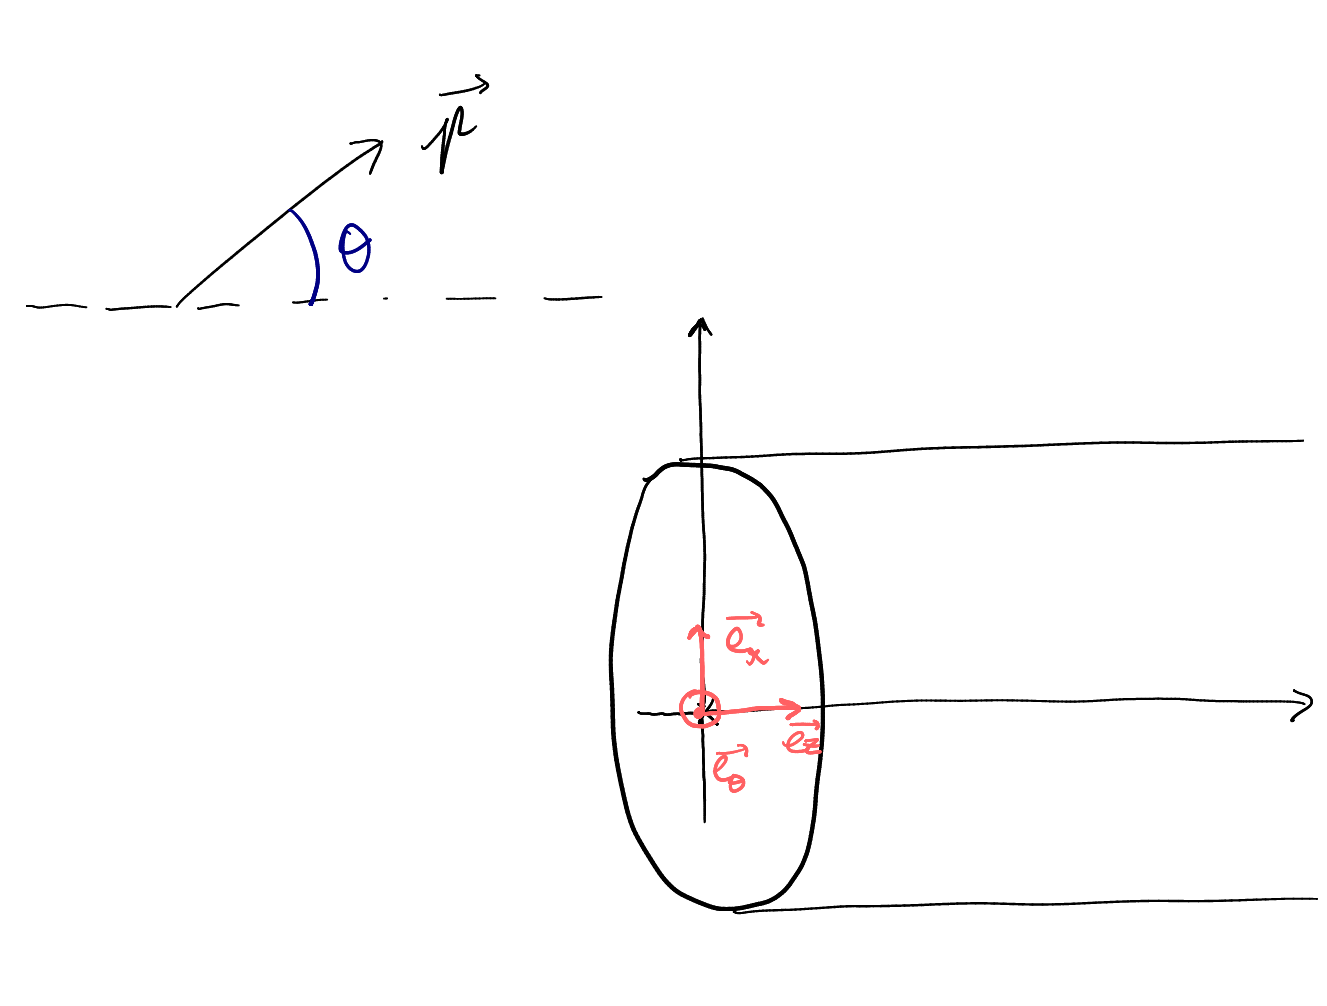
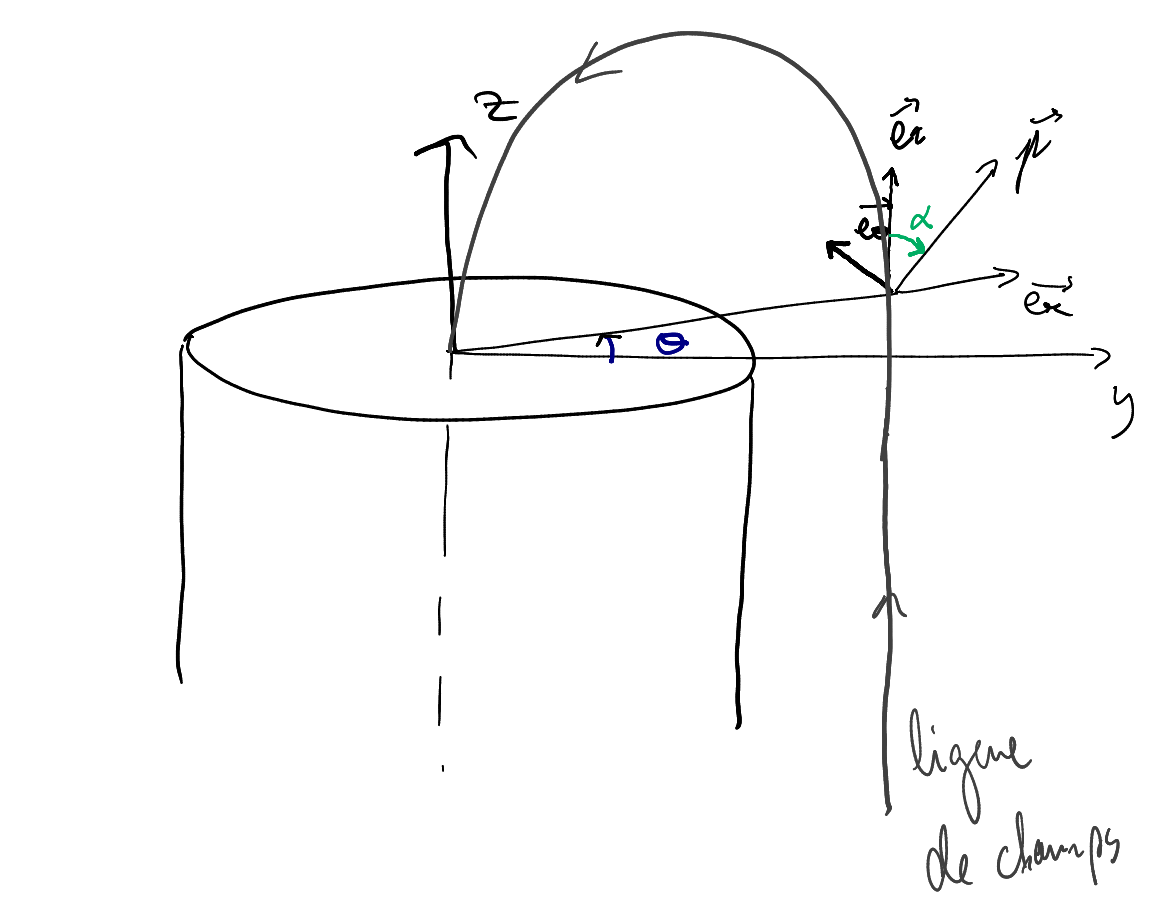
révision du problème

diff --git a/tex/seance_21_02_08.tex b/tex/seance_21_02_08.tex
@@ -29,20 +29,26 @@ Ce solénoïde engendre un champ magnétique:
  $$\vect{B} = B_r \vect{e_r} + B_z \vect{e_z}$$.
 On notera indifféremment $||\vect{B}||$ et $B$.
 
-On considère un déchet spatiale, de masse $m$, que l'on modélise par un moment magnétique solide $\vect{p}$ de moment d'inertie $J_\theta$. 
-
+On considère un déchet spatiale:
+\begin{itemize}
+    \item modélisé par un moment magnétique solide $\vect{p}$
+    \item de moment d'inertie $J_\theta$
+    \item de masse m
+\end{itemize} 
 On notera indifféremment $||\vect{p}||$ et $p$.
 
 On travaillera dans le repère cylindrique $(\vect{e_r},\vect{e_\theta},\vect{e_z})$ et on notera $(r,\theta,z)$ les coordonnées du déchet.
 
-\subsection{Schéma de la situation}
+\subsection{Schématisation de la situation}
 
 \begin{figure}[h]
     \centering
-    \includegraphics[scale=0.17]{schema_etude_mouvement_1.png}
+    \includegraphics[scale=0.15]{schema_etude_mouvement_1.png}
     \caption{Schéma simplifié de la situation}
 \end{figure}  
 
+On imagine que le moment magnétique $\vect{p}$ forme un angle $\alpha$ avec $\vect{e_z}$. L'objectif ici est d'étudier les variations de $\alpha$ et d'évaluer le temps que met $\vect{p}$ à s'aligner avec les lignes de champs.
+\newpage
 \section{Étude littérale du mouvement}
 \subsection{Étude de l'alignement du déchet}
 
@@ -52,7 +58,7 @@ On travaillera dans le repère cylindrique $(\vect{e_r},\vect{e_\theta},\vect{e_
 
 \ulbf{Conditions initiales}
 
-À t = 0, on suppose que le déchet est incliné d'un angle $\theta_0$ par rapport à l'axe de révolution du solénoïde. On suppose également la vitesse angulaire du déchet nulle à t = 0, ce qui est raisonnable puisque le déchet est dénué de tout mouvement dû au champ $B$ lorsqu'il n'y est pas soumis, ie à t = 0.
+À t = 0, on suppose que le déchet est incliné d'un angle $\alpha_0$ par rapport à l'axe de révolution du solénoïde. On suppose également la vitesse angulaire $\phder{\alpha}$ du déchet nulle à t = 0, ce qui est raisonnable puisque le déchet est dénué de tout mouvement dû au champ $\vect{B}$ lorsqu'il n'y est pas soumis, i.e. à t = 0.
 
 \ulbf{Bilan des forces}
 
@@ -63,52 +69,55 @@ $$\vec{F_B} = \vect{\text{grad}}(\vect{B}.\vect{p})$$
 
 Projeté selon $\vect{e_\theta}$ :
 \begin{align*}
-J_\theta \derived{\theta}{t} &= \vect{\MM}(\vect{F_B}) . \vect{e_\theta} \\
+J_\theta \derived{\alpha}{t} &= \vect{\MM}(\vect{F_B}) . \vect{e_\theta} \\
 &= (\vect{p} \wedge \vect{B}).\vect{e_\theta}\\
-&= pB_r \cos(\theta) - pB_z\sin(\theta)
+&= pB_r \cos(\alpha) - pB_z\sin(\alpha)
 \end{align*}
 
 On obtient l'équation différentielle suivante:
 \begin{prettybox}[blue]
 \ulbf{Équation différentielle du 2$^{nd}$ ordre non-linéaire à second membre non-constant:}
-$$\derived{\theta}{t} + \frac{pB_z}{J_\theta}\sin(\theta) = \frac{pB_r}{J_\theta} \cos(\theta)$$
+$$\derived{\alpha}{t} + \frac{pB_z}{J_\theta}\sin(\alpha) = \frac{pB_r}{J_\theta} \cos(\alpha)$$
 \end{prettybox}
 \subsubsection{Étude de la fin de l'alignement}
-On se place en premier dans la situation où $\theta$ est considéré petit. On a alors:
-$$\derived{\theta}{t} + \frac{pB_z}{J_\theta}\theta = \frac{pB_r}{J_\theta} $$
+On se place en premier dans la situation où $\alpha$ est considéré petit. On a alors:
+$$\derived{\alpha}{t} + \frac{pB_z}{J_\theta}\alpha = \frac{pB_r}{J_\theta} $$
 
 On pose $$\omega_0 = \sqrt{\frac{pB_z}{J_\theta}}$$
 
 \ulbf{Solution générale de l'équation homogène associée}
 
-$$\theta_h(t) = A \cos(\omega_0 t + \varphi)$$
+$$\alpha_h(t) = A \cos(\omega_0 t + \varphi)$$
 
 $\, \text{ avec } A \text{ et } \varphi \text{ des constantes d'intégrations}$.
 
 \newpage
 \ulbf{Solution particulière de l'équation}
 
-$$\theta_p(t) = \frac{B_r}{B_z}$$
+$$\alpha_p(t) = \frac{B_r}{B_z}$$
 
 
 \ulbf{Solution générale de l'équation}
 
-$$\theta(t) = A \cos(\omega_0 t + \varphi) + \frac{B_r}{B_z}$$
+$$\alpha(t) = A \cos(\omega_0 t + \varphi) + \frac{B_r}{B_z}$$
 
 \ulbf{Détermination des constantes d'intégration avec les conditions initiales}
 
 Avec:
-$$\theta(0) = \theta_0$$
-$$\derive{\theta}{t} (0) = 0$$
+$$\alpha(0) = \alpha_0$$
+$$\derive{\alpha}{t} (0) = 0$$
 
 On en déduit : 
-$$A = \theta_0  - \frac{B_r}{B_z}$$
+$$A = \alpha_0  - \frac{B_r}{B_z}$$
 $$\varphi \equiv 0 \left[\pi\right] $$ 
 
 Et donc finalement :
 
 \begin{prettybox}[blue]
 \ulbf{Équation de l'angle formé entre $\vect{p}$ et $\vect{e_z}$}
-    $$\theta(t) = \left(\theta_0  - \frac{B_r}{B_z}\right) \cos(\omega_0 t) + \frac{B_r}{B_z}$$
+    $$\alpha(t) = \left(\alpha_0  - \frac{B_r}{B_z}\right) \cos(\omega_0 t) + \frac{B_r}{B_z}$$
 \end{prettybox}
+
+\subsubsection{Étude de l'alignement : Résolution numérique de l'équation différentielle}
+
 \end{document}
